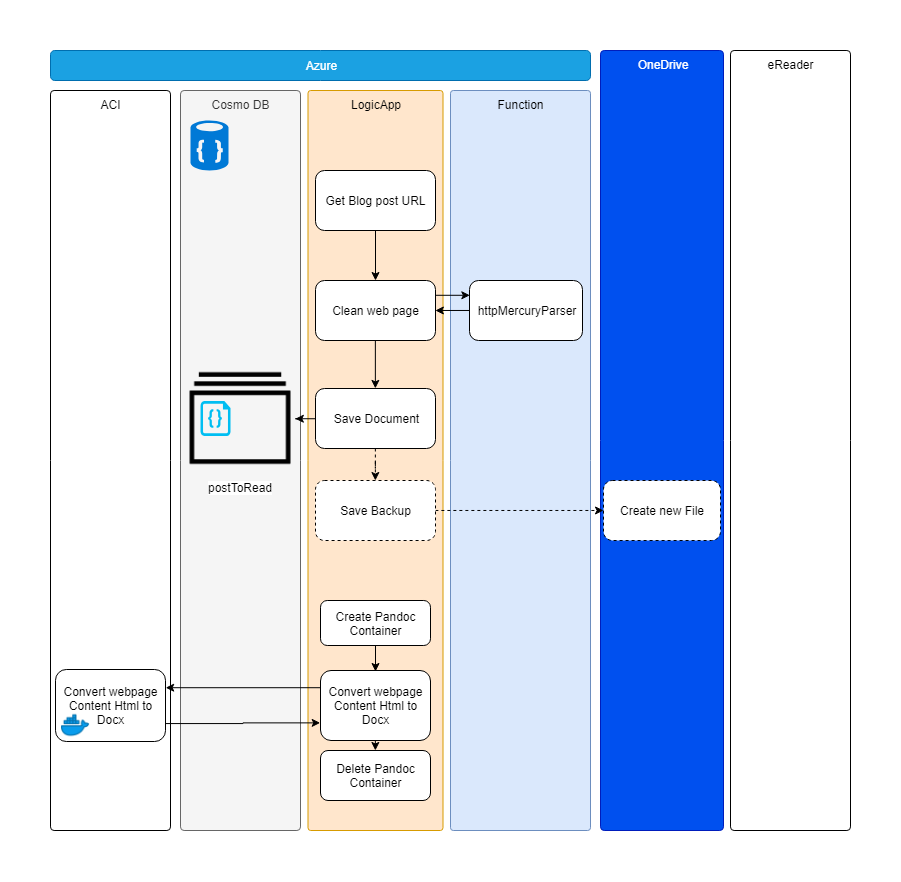
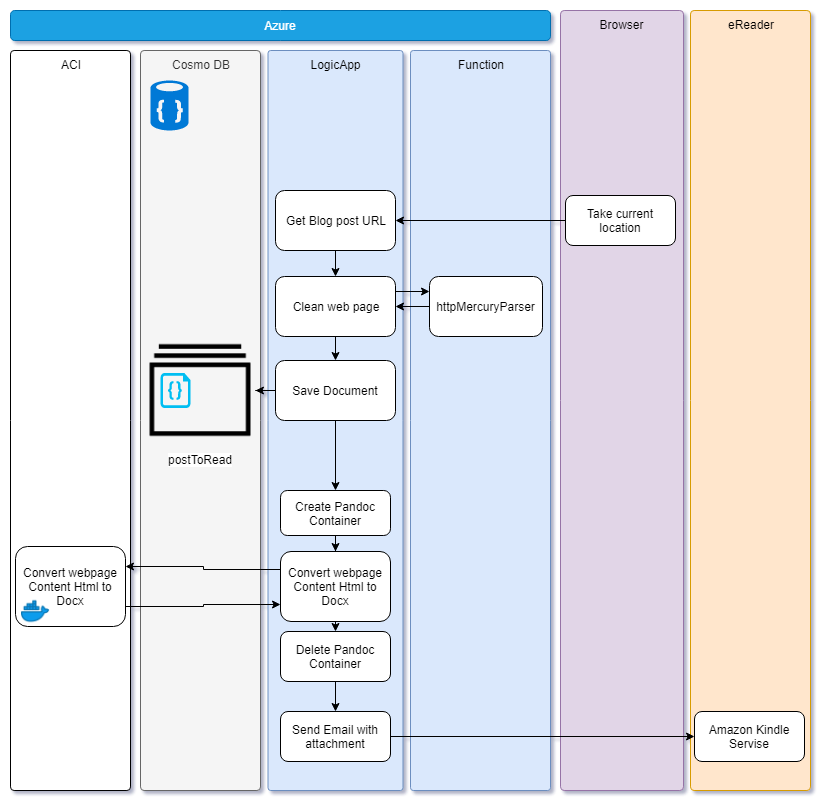
Clean up and add more details

diff --git a/module-pre-reading/bookmarklet.js b/module-pre-reading/bookmarklet.js
@@ -1,4 +1,5 @@
 
-// Boormarklet to extract and send the URL to the Logic App
+// Boormarklet to take the current url (aka window.location) and send it in the query string to Logic App
 
-javascript:(function(f,s,n,o){window.open(f+encodeURIComponent(s),n,o)}('http://localhost:7071/api/InitBookmark?postUrl=',window.location,'yourform','width=300,height=200'));
+javascript:(function(f,s,n,o){window.open(f+encodeURIComponent(s),n,o)}('_URL_OF_YOUR_LOGICAPP_&postUrl=',window.location,'yourform','width=300,height=200'));
+

diff --git a/module-pre-reading/README.md b/module-pre-reading/README.md
@@ -2,8 +2,42 @@
 
 ## Description
 
+This module (part) of the solution transforms an interesting blog post into document insode a eReader (aka: Kindle).
+
+## How it works
+
+The `bookmarklet` will send into the querystring the current URL to a Logic App.
+
+The Logic App will clean the post, keeping only the text and image of the article using a service named [Mercury-Parser](https://github.com/postlight/mercury-parser) wrapped in an Azure Function.
+
+It will keep the meta-data of the blog post into a Cosmos DB. You can see an example of that data in [sample-answer.json](fcToolsReadingNotes/HttpMercuryParser/sample-answer.json)
+
+The Logic App will then converts the clean html into a word document using [Pandoc](https://pandoc.org/) hosted into an Azure Container Instance (ACI). 
+
+Finally, the Logic App will send the document as an attachment to the email configured for you eReader.
+
+> You can retreived this email from the Amazon website in the section manage devices.
+
 ![GettingPostToEReader][GettingPostToEReader]
 (schema from: [ReadingNotes_3-0](../draw_io/ReadingNotes_3-0.html))
+
+## Installation
+
+1. Deploy the Azure Resources
+
+  You need to create:
+
+  - Logic App using [SendWebPageToeReader.json](LogicApps/SendWebPageToeReader.json)
+  - Azure Function using the folder [fcToolsReadingNotes](fcToolsReadingNotes)
+  - Cosmos DB with a collection named `postToRead` and a partition key `/domain`
+
+  > **Eventually it will all be deploy automatically.**🤞
+
+2. From your Internet browser create a new bookmark. Instead of a URL we will put some javascript code into it. This will transform the bookmark into a Bookmarklet. 
+
+  The Javascript is available into [bookmarklet.js](bookmarklet.js)
+
+  > You will need to edit it to replace `_URL_OF_YOUR_LOGICAPP_` by the URL of your Azure Logic App.
 
 ## Project
 
@@ -13,20 +47,20 @@
 
 #### Getting the URL of the post
 
-- [ ] Create the Bookmarklet (javascript code )
+- [X] Create the Bookmarklet (javascript code )
 
 #### Removing everything except the post content
 
-- [ ] Logic Apps
+- [X] Logic Apps
    - [x] Receive a URL as querystring parameters
-   - [ ] Azure Function(s)
+   - [/] Azure Function(s)
       - [x] Azure Function wrapping Mercury services
       - [x] Add a new property "id" with a GUID value
       - [ ] 🚧Create an OpenAPI definition for a function. Unfortunately this won't be possible for now. As explain in the [doc](https://docs.microsoft.com/en-us/azure/azure-functions/functions-openapi-definition) OpenAPI definition is not yet supported in Function V2.
    - [x] Call the WebParser, passing the URL
-   - [ ] Generate a Word document
-     - [ ] Create an Azure Container Instance (ACI) with PanDoc
-     - [ ] Once Up generate a Word document from the html
+   - [X] Generate a Word document
+     - [X] Create an Azure Container Instance (ACI) with PanDoc
+     - [X] Once Up generate a Word document from the html
 
 #### Save the post information (url, author, date entered)
 
@@ -36,10 +70,14 @@
 
 #### Send it to the eReader
 
-- [ ] Send Word document as attachment to the Kindle service.
+- [X] Send Word document as attachment to the Kindle service.
 
 
 
 ## Stream
+
+| Date | Title | 
+|------|-------|
+| 2019-05-01 | [Live codeing - Working on Azure-Docker-LogicApps - ReadingNotes Project](https://www.twitch.tv/videos/418862208?filter=archives&sort=time) |
 
 [GettingPostToEReader]: medias/GettingPostToEReader.png 'Getting the post to the eReader'

diff --git a/README.md b/README.md
@@ -29,7 +29,7 @@ The solution is in three modules:
 
 ## Deploy To Azure
 
-[![Deploy to Azure](https://azuredeploy.net/deploybutton.png)](https://azuredeploy.net/))
+[![Deploy to Azure](https://azuredeploy.net/deploybutton.png)](https://azuredeploy.net/)
 
 ## Module Pre-Reading
 
